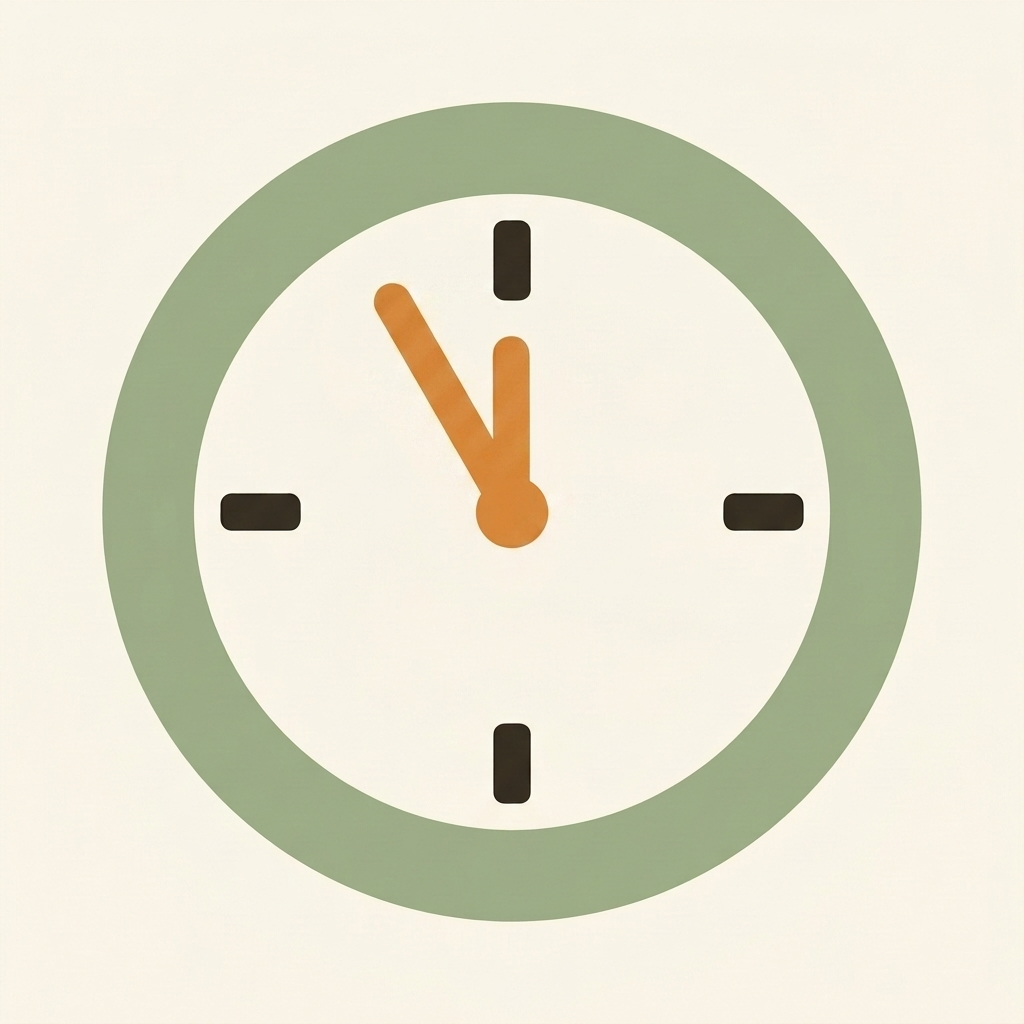
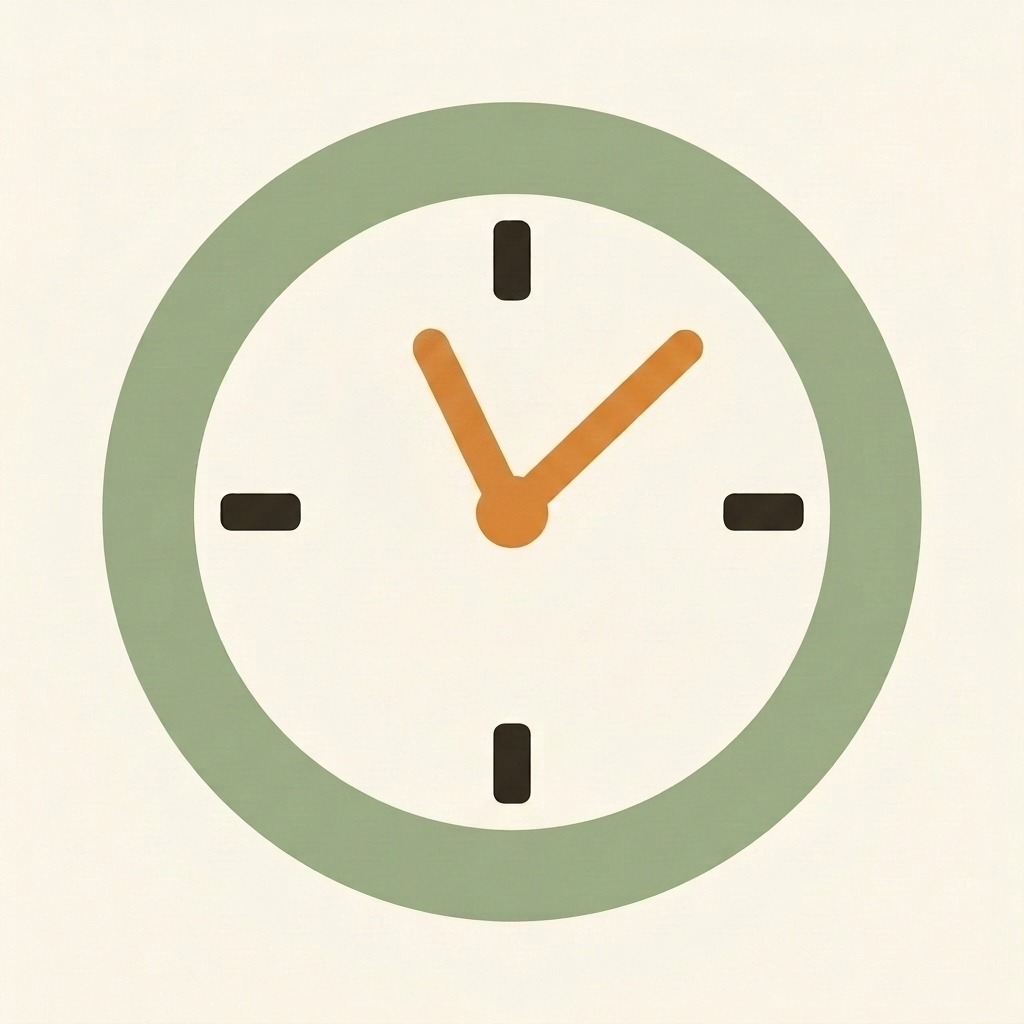
Folder upload (1 file)

Changed region(s): [[0.3438, 0.25, 0.6875, 0.5]]

diff --git a/_portal.html b/_portal.html
@@ -439,12 +439,12 @@
       <span class="nav-logo">Frog Focus</span>
       <div class="nav-tabs">
         <a href="#pages" class="nav-tab active">Pages (2)</a>
-        <a href="#images" class="nav-tab">Images (20)</a>
+        <a href="#images" class="nav-tab">Images (21)</a>
         
         <a href="#uploads" class="nav-tab">Uploads (26)</a>
         
         <a href="#screenshots" class="nav-tab">Screenshots (9)</a>
-        <a href="#" class="nav-tab">Files (109)</a>
+        <a href="#" class="nav-tab">Files (110)</a>
       </div>
     </div>
     <div class="nav-right">
@@ -457,7 +457,7 @@
   <section class="hero">
     <div class="hero-eyebrow">Project Portal</div>
     <h1 class="hero-title">Frog Focus</h1>
-    <p class="hero-desc">i see it.  i think it's too tiny.  maybe we should go back to the clock image - frog focus mark 1</p>
+    <p class="hero-desc">yes, it looks the best i think.  one more little edit.  move it closer to the word frog please</p>
     <div class="hero-stats">
       <div class="hero-stat">
         <span class="hero-stat-value">2</span>
@@ -465,11 +465,11 @@
       </div>
       
       <div class="hero-stat">
-        <span class="hero-stat-value">20</span>
+        <span class="hero-stat-value">21</span>
         <span class="hero-stat-label">Custom Images</span>
       </div>
       <div class="hero-stat">
-        <span class="hero-stat-value">109</span>
+        <span class="hero-stat-value">110</span>
         <span class="hero-stat-label">Total Files</span>
       </div>
     </div>
@@ -536,7 +536,7 @@
     <div class="cta-box">
       <div class="cta-text">
         <h3>Ready to go live?</h3>
-        <p>2 pages, 20 custom images, all reviewed and approved. One click to publish.</p>
+        <p>2 pages, 21 custom images, all reviewed and approved. One click to publish.</p>
       </div>
       <div class="cta-actions">
         <button class="btn btn-ghost">Connect Domain</button>
@@ -677,7 +677,7 @@
     </div>
     
     <div class="materials-block" id="images">
-      <h3 class="materials-title">Generated Images <span class="materials-count">20</span></h3>
+      <h3 class="materials-title">Generated Images <span class="materials-count">21</span></h3>
       <div class="materials-grid"><a class="material-card" href="https://app.empir3.com/workspace/fb895467-2852-4051-aa28-877708c08ccf/images/frog-break.png" target="_blank" title="frog-break.png">
           <div class="material-preview"><img src="https://app.empir3.com/workspace/fb895467-2852-4051-aa28-877708c08ccf/images/frog-break.png" alt="frog-break.png" loading="lazy"></div>
           <div class="material-name">frog-break.png</div>
@@ -717,6 +717,10 @@
 <a class="material-card" href="https://app.empir3.com/workspace/fb895467-2852-4051-aa28-877708c08ccf/images/frog-focus-logo-d.png" target="_blank" title="frog-focus-logo-d.png">
           <div class="material-preview"><img src="https://app.empir3.com/workspace/fb895467-2852-4051-aa28-877708c08ccf/images/frog-focus-logo-d.png" alt="frog-focus-logo-d.png" loading="lazy"></div>
           <div class="material-name">frog-focus-logo-d.png</div>
+        </a>
+<a class="material-card" href="https://app.empir3.com/workspace/fb895467-2852-4051-aa28-877708c08ccf/images/frog-focus-mark-1-1111.png" target="_blank" title="frog-focus-mark-1-1111.png">
+          <div class="material-preview"><img src="https://app.empir3.com/workspace/fb895467-2852-4051-aa28-877708c08ccf/images/frog-focus-mark-1-1111.png" alt="frog-focus-mark-1-1111.png" loading="lazy"></div>
+          <div class="material-name">frog-focus-mark-1-1111.png</div>
         </a>
 <a class="material-card" href="https://app.empir3.com/workspace/fb895467-2852-4051-aa28-877708c08ccf/images/frog-focus-mark-1.png" target="_blank" title="frog-focus-mark-1.png">
           <div class="material-preview"><img src="https://app.empir3.com/workspace/fb895467-2852-4051-aa28-877708c08ccf/images/frog-focus-mark-1.png" alt="frog-focus-mark-1.png" loading="lazy"></div>

diff --git a/_hub.html b/_hub.html
@@ -385,7 +385,7 @@
             <a href="_hub.html" class="file-card" target="_blank">
               <span class="file-icon">📄</span>
               <span class="file-name">_hub.html</span>
-              <span class="file-meta">48.6 KB</span>
+              <span class="file-meta">48.7 KB</span>
             </a>
           
             <a href="diag.html" class="file-card" target="_blank">
@@ -493,6 +493,12 @@
         <h3>📁 Other Files</h3>
         <div class="file-grid">
           
+            <a href="images/frog-focus-mark-1-1111.png" class="file-card" target="_blank">
+              <span class="file-icon">🖼</span>
+              <span class="file-name">images/frog-focus-mark-1-1111.png</span>
+              <span class="file-meta">853.8 KB</span>
+            </a>
+          
             <a href="images/frog-focus-hourglass-4.png" class="file-card" target="_blank">
               <span class="file-icon">🖼</span>
               <span class="file-name">images/frog-focus-hourglass-4.png</span>
@@ -547,14 +553,8 @@
               <span class="file-meta">710.6 KB</span>
             </a>
           
-            <a href="images/frog-focus-logo-c.png" class="file-card" target="_blank">
-              <span class="file-icon">🖼</span>
-              <span class="file-name">images/frog-focus-logo-c.png</span>
-              <span class="file-meta">430.2 KB</span>
-            </a>
-          
         </div>
-        <p class="more-files">+87 more files</p>
+        <p class="more-files">+88 more files</p>
       </div>
     
 
@@ -597,7 +597,7 @@
         <div class="sidebar-panel">
           <h3>📊 Quick Stats</h3>
           <div class="quick-stat-grid">
-            <div class="qs-card"><div class="qs-val">113</div><div class="qs-label">Files</div></div>
+            <div class="qs-card"><div class="qs-val">114</div><div class="qs-label">Files</div></div>
             <div class="qs-card"><div class="qs-val">4</div><div class="qs-label">Pages</div></div>
             <div class="qs-card"><div class="qs-val">9</div><div class="qs-label">Code</div></div>
             <div class="qs-card"><div class="qs-val">0</div><div class="qs-label">Decisions</div></div>
@@ -617,6 +617,12 @@
               </li>
             
               <li>
+                <span>🖼</span>
+                <a href="images/frog-focus-mark-1-1111.png" target="_blank">images/frog-focus-mark-1-1111.png</a>
+                <span class="file-size">853.8 KB</span>
+              </li>
+            
+              <li>
                 <span>📄</span>
                 <a href="_portal.html" target="_blank">_portal.html</a>
                 <span class="file-size">41.4 KB</span>
@@ -625,7 +631,7 @@
               <li>
                 <span>📄</span>
                 <a href="_hub.html" target="_blank">_hub.html</a>
-                <span class="file-size">48.6 KB</span>
+                <span class="file-size">48.7 KB</span>
               </li>
             
               <li>
